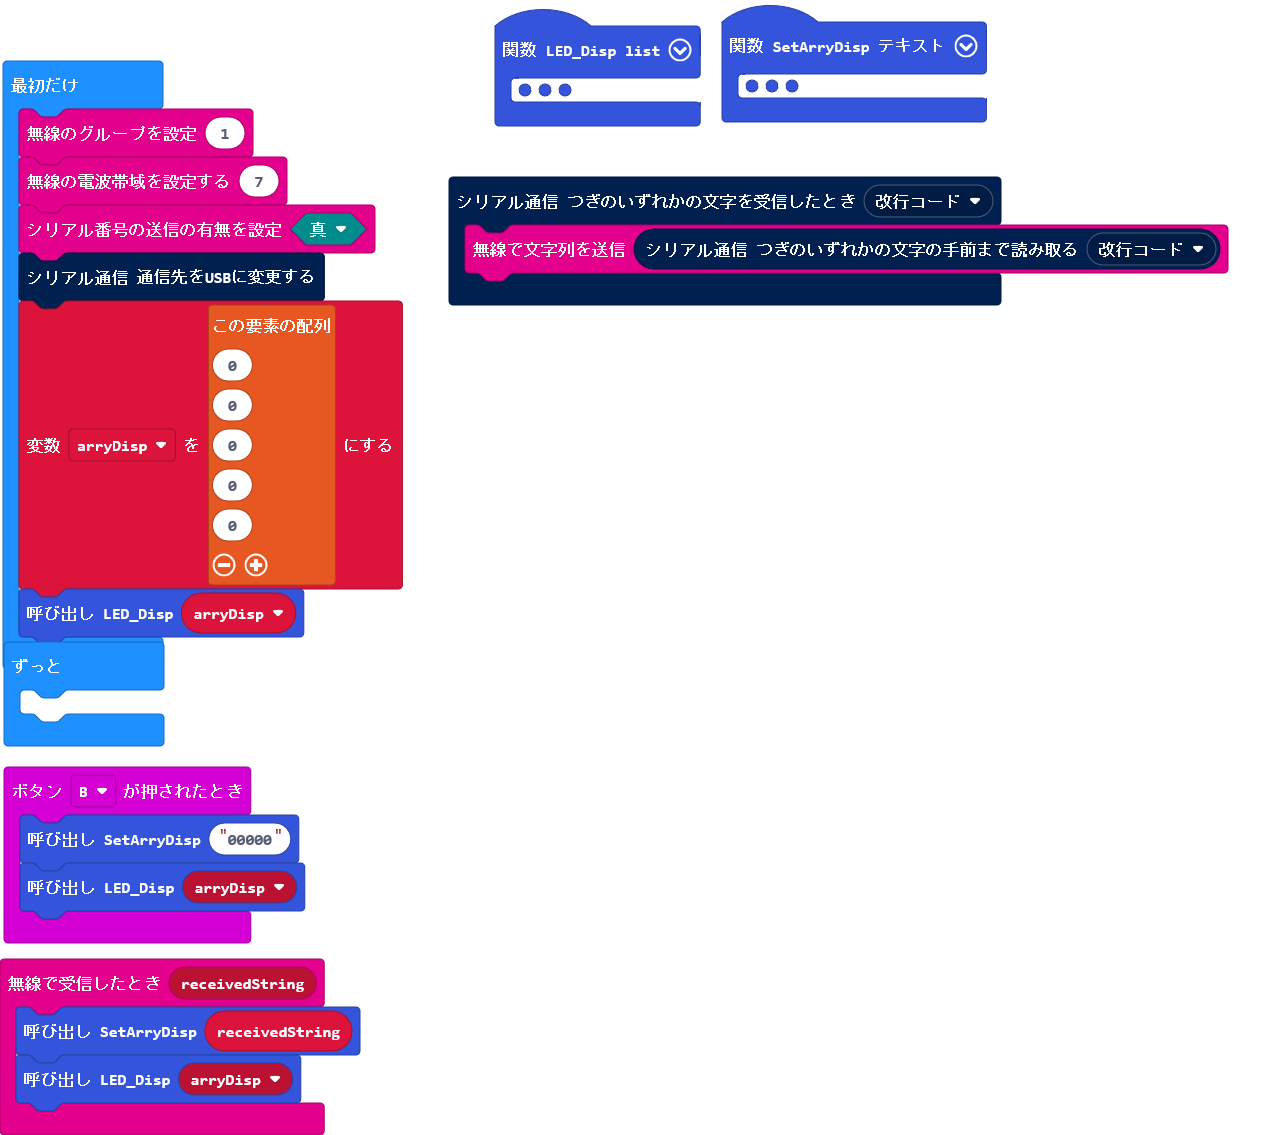
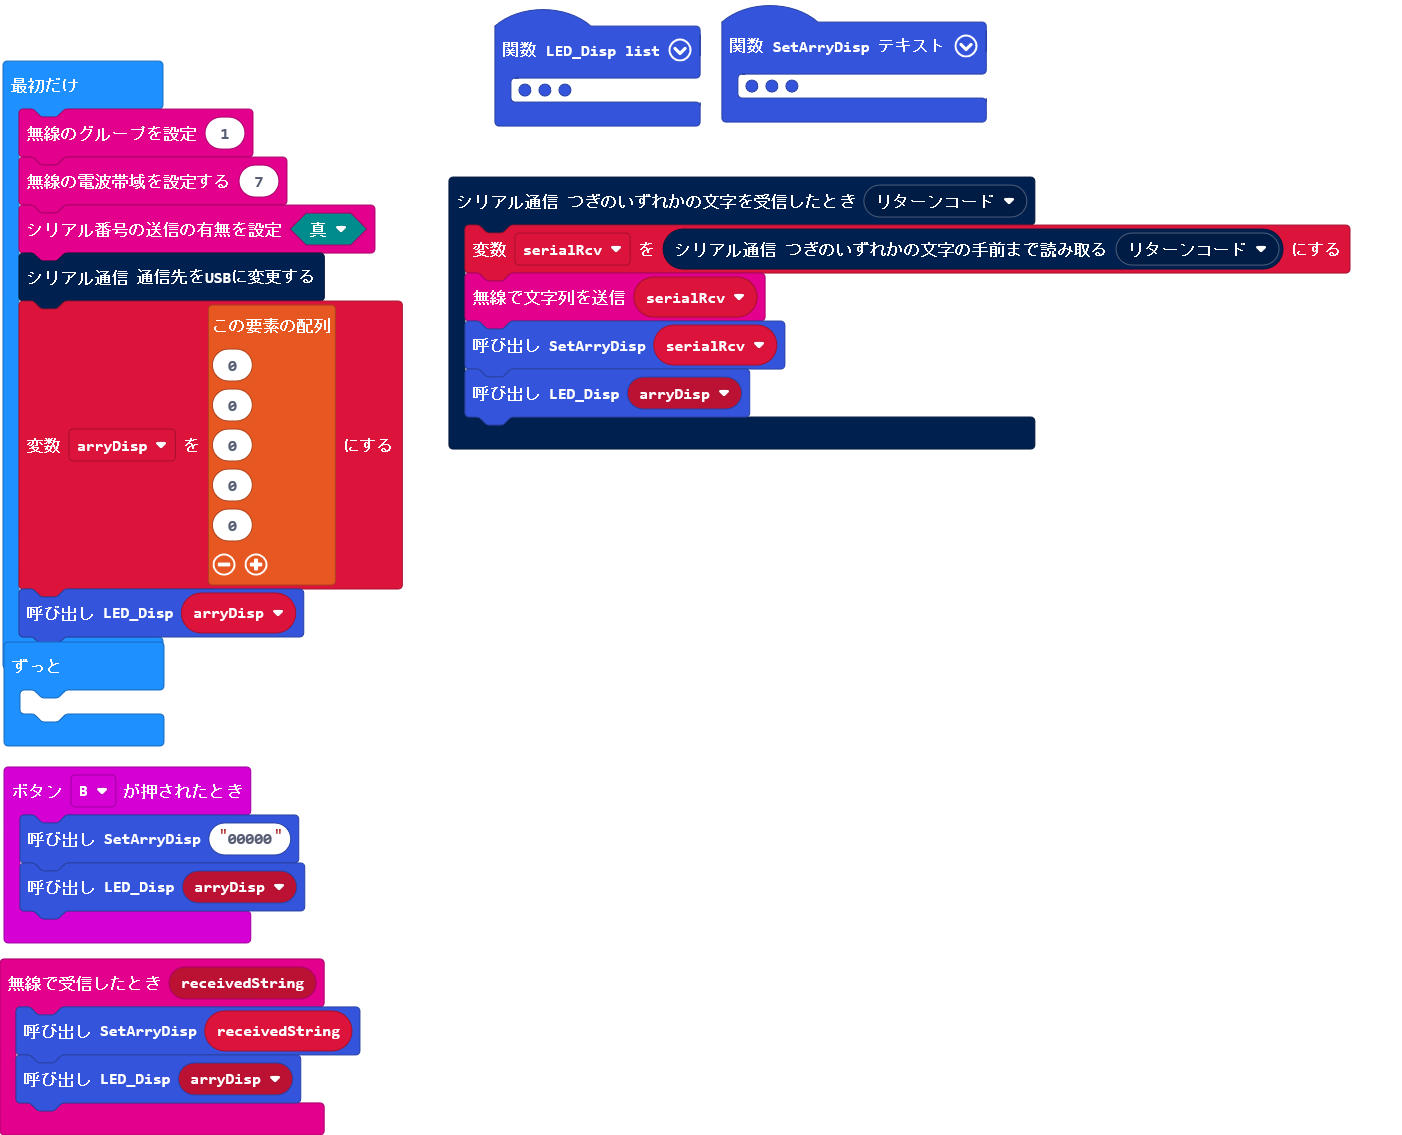
USBシリアルの受信データもLEDに表示するようにした

diff --git a/main.ts b/main.ts
@@ -69,9 +69,6 @@ function SetArryDisp (テキスト: string) {
         arryDisp[カウンター] = val
     }
 }
-serial.onDataReceived(serial.delimiters(Delimiters.NewLine), function () {
-    radio.sendString(serial.readUntil(serial.delimiters(Delimiters.NewLine)))
-})
 radio.onReceivedString(function (receivedString) {
     SetArryDisp(receivedString)
     LED_Disp(arryDisp)
@@ -93,6 +90,13 @@ function LED_Disp (list: any[]) {
         }
     }
 }
+serial.onDataReceived(serial.delimiters(Delimiters.CarriageReturn), function () {
+    serialRcv = serial.readUntil(serial.delimiters(Delimiters.CarriageReturn))
+    radio.sendString(serialRcv)
+    SetArryDisp(serialRcv)
+    LED_Disp(arryDisp)
+})
+let serialRcv = ""
 let b: any = null
 let val = 0
 let m = ""
